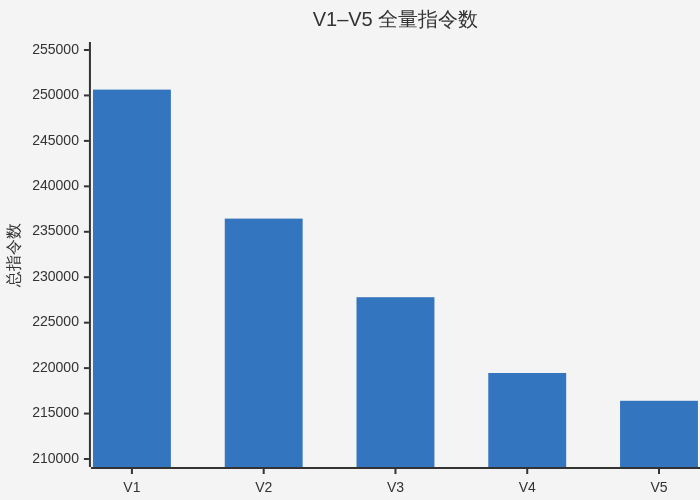
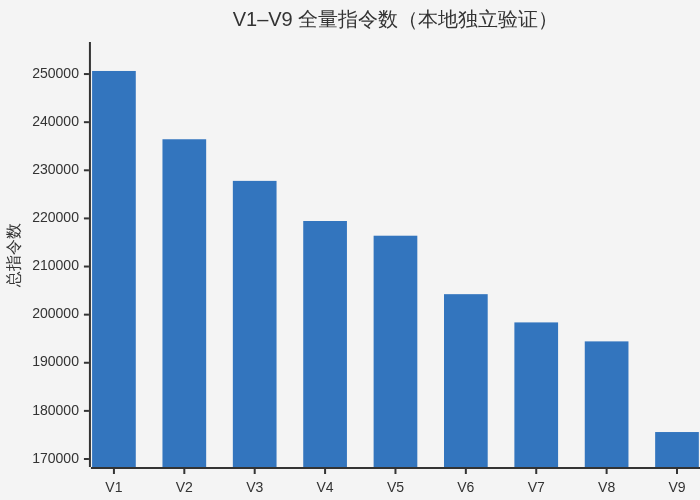
docs(santa): 完成 V9 验收证据与文档/Web 收尾
- 把 V9 任务书偏差记录从仓库根移到 `competitions/santa-2026/docs/santa-v9-task-deviations.md`：
  原文标记为"推送前审查快照"并保留 D1–D14 历史事实，追加"合入后独立审查与最终验收"
  章节，记录远程合入提交 8858a6a、真实 CI、D1–D14 当前状态（D1/D2/D10 关闭）、
  Linux/GCC 全量复现、同工具链对照、编译器缓存修复、归档回放、历史指纹抽查、
  剩余限制与"有条件通过"结论。
- `docs/progress.md` 追加 2026-11-26 最终验收记录（GCC 环境、175,604 与冻结 CSV
  逐字节一致、同工具链 1,000/1,000、归档 137/863/30、120/120 测试、CI）；
  `docs/algorithm-evolution.md` 与赛题 README 补充参考工具链复现结论；
  `docs/reports/README.md` 已在前一提交更新。
- `version-scores.png` 由更新后的 `version-scores.mmd` 经 mermaid.ink 重新渲染为
  V1–V9，删除"PNG 只覆盖 V1–V5、未重绘"的过期说明；`.mmd` 注释同步。
- 按流程（测试与回放核对后）显式刷新 `web/build/santa-review.json` 到新的 solver
  源码指纹（14 个文件，含两个 `.cpp`、兼容头、`native/build.py`），槽位保持 V1–V9；
  重建 `Santa-2026-Interactive-Report.html` 与 `web/simulators.html`，两个
  `--check` 通过；报告页离线冒烟复核含 V9、175,604、参考工具链说明与 9 条成绩条。
- `AGENTS.md` 增加"显式 `SANTA_CXX` 优先于缓存、切换编译器必须重建"规则。
- 最终本地验证：Santa Python 120、Node 7、Web 17、装箱 27+15、量子 13 通过；
  原生构建 macOS/Apple Clang 与 Linux/GCC 14.2 均成功；git diff --check 通过。

diff --git a/competitions/santa-2026/Santa-2026-Interactive-Report.html b/competitions/santa-2026/Santa-2026-Interactive-Report.html
@@ -753,10 +753,10 @@ p+r, &amp; p\le v.
 <p><a href="#学习导航">返回学习导航</a></p>
 <h2 id="08-演进与实验">08 演进与实验</h2>
 <h3 id="81-同一批-1000-题的本地成绩">8.1 同一批 1,000 题的本地成绩</h3>
[2 lines of base64/hex data omitted]
 
 <blockquote>
-<p><strong>图表口径：</strong> 这张 PNG 由 <code>diagrams/version-scores.mmd</code>（xychart）生成，只覆盖 V1–V5。本环境没有离线 Mermaid 渲染器，因此本次只把 <code>.mmd</code> 源文本补到 V1–V9，<strong>没有重绘 PNG</strong>。V6–V9 的正式成绩以互动报告顶部的动态成绩条和本节表格为准，两者都直接来自 <code>docs/reports/v1.json</code>–<code>v9.json</code>。</p>
+<p><strong>图表口径：</strong> 这张 PNG 由 <code>diagrams/version-scores.mmd</code>（xychart）经 mermaid.ink 渲染，覆盖 V1–V9（<code>version-scores.png</code> 已同步重绘）。互动报告顶部的动态成绩条和本节表格直接来自 <code>docs/reports/v1.json</code>–<code>v9.json</code>，与图中数字一致；图中是本地独立验证的指令总数，不是 Kaggle 榜单成绩。</p>
 </blockquote>
 <div class="table-wrap"><table>
 <thead>
@@ -1232,6 +1232,7 @@ python3 src/graph_solver.py data/puzzles.csv --version v9 --jobs 6 \
   --checkpoint experiments/v9-fresh.sqlite --output experiments/v9-fresh.csv --stop-after 32</code></pre>
 
 <p>检查点 schema 3 绑定输入 SHA-256、全部生产 Python、两个 <code>.cpp</code>、兼容头、<code>native/build.py</code>、实际二进制哈希、编译器/平台/参数；恢复时重放已保存记录并校验摘要。<code>--stop-after N</code> 限制本次调度的未完成题目数量；只有完成全部输入才导出 CSV（正式数据为 1,000 题）。同一指纹下可调整 jobs。旧布局的 SQLite 会被明确拒绝，应使用原提交继续或新建检查点。</p>
+<p><strong>参考工具链复现（2026-11-26）：</strong> 在 Linux + GCC 14.2.0 + Python 3.13.3 环境从官方 1,000 题独立求解，得到同样的 <strong>175,604</strong>、最长 415、1,000/1,000 合法，输出 CSV 与冻结研究记录逐字节一致（<code>5ab0b72c…</code>）；同一工具链下冻结研究实现与当前功能化移植实现逐题 1,000/1,000 一致（程序、阶段、节点、调度尝试、四条路线 0 差异），macOS 上唯一的 <code>scored_0775</code> 平局差异消失。详见 <a href="https://github.com/Leonardo-F/kaggle-lab/blob/main/competitions/santa-2026/docs/reports/v9-integration.json">v9-integration.json</a>。</p>
 <p>仅验证结果（不运行求解器）：</p>
 <pre><code class="language-bash">python3 src/verify.py data/puzzles.csv submissions/elf-calculator-independent-v9-score-175604.csv
 python3 src/verify.py data/puzzles.csv submissions/elf-calculator-merged-v8-v9-score-174884.csv</code></pre>
@@ -1264,7 +1265,7 @@ python3 src/verify.py /absolute/path/puzzles.csv experiments/v8-rerun.csv</code>
 <ol>
 <li>在浏览器离线打开 <a href="#simulator">simulator.html</a>。</li>
 <li>在自定义题区域输入练习 A 或 B，查看 JS 求解与寄存器变化；它是独立的教学实现，不是 Python + C++ 的 V9。</li>
-<li>在 Python 版本回放区域导入题目 CSV 和各版本真实输出 CSV，选择相同题号并比较；默认槽位是 V1–V8 历史结果与 V9 当前独立版本。</li>
+<li>在 Python 版本回放区域导入题目 CSV 和各版本真实输出 CSV，选择相同题号并比较；默认槽位是 V1–V9：V1–V8 为历史结果，V9 为当前独立版本；V8+V9 混合结果用自定义标签回放。</li>
 <li>观察目标命中、寄存器覆盖、指令数及共享节点/重算，切换版本比较同一题的不同程序。可以使用 <a href="https://github.com/Leonardo-F/kaggle-lab/blob/main/competitions/santa-2026/submissions/elf-calculator-independent-v9-score-175604.csv">V9 CSV</a>、<a href="https://github.com/Leonardo-F/kaggle-lab/blob/main/competitions/santa-2026/submissions/elf-calculator-independent-v8-score-194444.csv">V8 CSV</a> 与 <a href="https://github.com/Leonardo-F/kaggle-lab/blob/main/competitions/santa-2026/submissions/elf-calculator-independent-v7-score-198388.csv">V7 CSV</a>；V8+V9 混合 CSV 用页面自定义标签回放，它不是默认算法槽位。</li>
 </ol>
 <p><a href="#top">互动算法报告</a> 保留历史学习视图与当前 V9 章节。报告 HTML 由 <code>docs/build_report.py</code> 统一重建，本文不宣称浏览器交互已逐项人工验证。</p>

diff --git a/competitions/santa-2026/docs/santa-v9-task-deviations.md b/competitions/santa-2026/docs/santa-v9-task-deviations.md
@@ -2,6 +2,8 @@
 
 > 本文件供推送前的独立审查（如交给 GPT/代码评审）使用。它只记录**偏差、调整原因、影响与证据**，完整交付总结见对话回复和 `competitions/santa-2026/docs/progress.md`。审查时请优先核对第 3 节的 D1–D14，以及第 4 节的未验证清单。
 
+> **状态（2026-11-26 更新）：** 本文件 §0–§7 是 **V9 推送前的审查快照**，内容按当时事实保留不改；V9 已随后合入远程 `main`（`8858a6a`），并完成 Linux + GCC 参考工具链的最终验收，结果见文末 **§8 合入后独立审查与最终验收**。§8 中的状态表取代 §0–§7 中"未推送/未验证"的旧状态，但历史偏差本身不追溯改写。
+
 ## 0. 审查上下文
 
 | 项目 | 值 |
@@ -225,3 +227,163 @@ python3 src/verify.py data/puzzles.csv experiments/gcc-v9.csv
 ---
 
 **D10 补充说明：** 同工具链逐题对照已覆盖 11 题代表性样本 + 差异题 `scored_0775` + 全量对照中的 368/1000 题，均为 0 处不一致；受本次时间窗口限制未跑完 1,000 题。"同工具链全量一致"未完整证明，但移植版与冻结记录的 999/1000 逐题一致、且唯一差异题可由同工具链参考实现复现移植版程序，足以支持"差异来自工具链而非移植逻辑"的结论。
+
+---
+
+# 8. 合入后独立审查与最终验收（2026-11-26）
+
+本节是 V9 合入远程 `main` 后的收尾验收记录，按"实际执行结果"填写；不修改 §0–§7 的历史快照。
+
+## 8.1 远程与本地状态
+
+| 项目 | 值 |
+|---|---|
+| 远程 `main`（合入后） | `8858a6a09e4ba37498f831e4350a8787d1e08c2c`（merge `feat/santa-v9`） |
+| V9 合入内容 | `c404706`、`d3f4cae`、`96ac38e`、`584652b`、`b0f63bd`、`105cc83` 六个提交 |
+| GitHub Actions（main 合并提交） | [run 45673883392](https://github.com/Leonardo-F/kaggle-lab/actions/runs/45673883392)，**completed / success**，含 `Build Santa native C++17 constructors` 步骤，全部 16 个步骤 success（使用 `gh run view --json jobs` 核实） |
+| 本轮验收分支 | `fix/santa-v9-final-acceptance`（从 `8858a6a` 创建，本地提交，未推送） |
+
+## 8.2 D1–D14 当前状态
+
+| 偏差 | 原状态 | 最终状态 | 依据 |
+|---|---|---|---|
+| D1 本机无 GCC，用 Apple Clang 构建 | 未解决 | **关闭** | Linux + GCC 14.2.0 参考工具链全量复现，输出与冻结 CSV 逐字节一致（§8.3） |
+| D2 1/1000 等长程序平局差异 | 已披露 | **关闭** | GCC 环境下 port、参考实现、冻结记录三方 `scored_0775` 程序完全相同；三份 CSV SHA 均为 `5ab0b72c…` |
+| D3 中间提交非独立可发布 | 可接受 | 保持可接受（未改历史） | 最终 `main` 与验收分支树已验证 |
+| D4 测试夹具用 V10 模拟未来版本 | 可接受 | 保持 | — |
+| D5 正式报告平铺 schema 1 | 可接受 | 保持 | 未迁移；验收报告独立为 `v9-integration.json` |
+| D6 未用独立 worktree | 可接受 | 保持 | — |
+| D7 CI 未远端执行 | 未解决 | **关闭（针对已合入 main）** | 真实 Actions run 成功；本轮本地验收提交因未推送仍未跑 CI（见 §8.9） |
+| D8 报告 README 扩展 | 可接受 | 保持，补充 v9-integration 条目 | `docs/reports/README.md` |
+| D9 混合归档用本次 V9 重建 | 可接受 | 保持，并完成逐题公式校验 | §8.6 |
+| D10 同工具链全量等价性未完成 | 部分完成（368/1000） | **关闭** | Linux GCC 同环境双实现 1,000/1,000 全量对照，0 差异（§8.4） |
+| D11 浏览器为 Chrome headless 自动化 | 可接受 | 保持（本轮复验报告/模拟器） | §8.8 |
+| D12 version-scores.png 未重绘 | 未解决 | **关闭** | 已用 mermaid.ink 由更新后的 `version-scores.mmd` 重新渲染 V1–V9 PNG，正文说明同步更新 |
+| D13 历史指纹未逐文件复核 | 未完成 | **部分完成** | 抽查 `v8.json` 4 个文件、`v8-refactor.json` 10 个文件，全部与会话记录提交一致（§8.7） |
+| D14 练习集 6 进程 | 可接受 | 保持 | — |
+
+## 8.3 P0-2：Linux + GCC 参考工具链全量复现（实际结果）
+
+环境（VM 内实测）：Ubuntu 25.04、Linux 6.14.0-37-generic aarch64（Apple 虚拟化，6 vCPU）、
+`g++-14 (Ubuntu 14.2.0-19ubuntu2) 14.2.0`、glibc 2.41、`libstdc++-14-dev 14.2.0-19ubuntu2`、
+Python 3.13.3（GCC 14.2.0 构建）。原生构建记录：`SANTA_CXX=/usr/bin/g++-14`、flags `-O3 -std=c++17`、
+`compat_include=false`；GCC 二进制 SHA-256：`constructor_wide 9682b6e6…`、`constructor_mitm 8379e5b3…`；
+两个 `.cpp` 与冻结研究包逐字节相同（`99a05ebc…` / `14b3885b…`）。
+
+命令（全新 schema 3 检查点、6 进程、无 resume）：
+
+```bash
+cd competitions/santa-2026
+export SANTA_CXX=/usr/bin/g++-14
+python3 src/algorithms/native/build.py
+python3 src/graph_solver.py data/puzzles.csv --version v9 --jobs 6   --checkpoint experiments/v9-gcc.sqlite --output experiments/v9-gcc.csv
+python3 src/verify.py data/puzzles.csv experiments/v9-gcc.csv
+```
+
+结果：
+
+| 指标 | 冻结 V9 | 本次 Linux/GCC 实测 |
+|---|---:|---:|
+| 题数 / 合法 | 1,000 / 1,000 | **1,000 / 1,000** |
+| Stage 1 | 182,205 | **182,205** |
+| Final | 175,604 | **175,604** |
+| Stage 2 节省 | 6,601（394/606/0） | **6,601（394/606/0）** |
+| 最长程序 | 415 | **415** |
+| CSV SHA-256 | `5ab0b72c…` | **`5ab0b72c…`（逐字节一致）** |
+| 耗时 / 进程 | 研究包记录 797.97 s（8 行 resume 后 992 行，不可直接比较） | **443.96 s / 6 进程** |
+| 检查点 | 研究包完整 | schema 3、1,000 条、`PRAGMA integrity_check=ok`、SHA `c5d7f15…` |
+
+逐题与冻结记录对照：程序 1,000/1,000 相同、base/score/nodes/schedule_attempts 0 差异、四路线
+（config/nodes/score/error）0 差异、7 个位宽桶完全一致；`scored_0775` 在本环境下程序与冻结记录
+完全相同（181 步、`attempts=0`）。**未直接替换历史归档**：仓库归档仍保留 macOS 运行产出的
+`05e7b630…`，两份都是独立的合法 175,604 结果，差异仅来自工具链平局；参考工具链结果与冻结记录的
+一致性记录在 `docs/reports/v9-integration.json`。
+
+## 8.4 P0-3：同工具链全量等价性验收（实际结果）
+
+方法：使用冻结研究包源码（`v9_stage2/` 的 `experiment/optimized/polish/scheduler/stage2/run_full`）
+与当前功能化移植实现，分别用**同一台 VM、同一 Python 3.13.3、同一 `g++-14`、同一 flags、同一官方
+题目数据、同一冻结参数/种子**从零独立求解 1,000 题；参考实现使用本机重新编译的 GCC 二进制，
+移植实现使用 `native/build.py` 构建的同一 SHA 二进制。两个实现进程互相独立，不共享输出或检查点。
+参考实现结果：1,000/1,000、175,604、最长 415、CSV `5ab0b72c…`、耗时 429.97 s（6 进程）。
+
+| 对照项 | 差异数 |
+|---|---:|
+| 完整最终程序 | **0 / 1,000** |
+| Stage 1 分数 | 0 |
+| Stage 2 最终分数 | 0 |
+| DAG 节点数 | 0 |
+| 调度尝试次数 | 0 |
+| 四条构造路线（config/nodes/score/error） | 0 |
+| 路线失败状态 | 参考 0 / 移植 0 |
+| 最终程序合法性（独立 `verify.py`） | 两者均 1,000/1,000 |
+| 三份 CSV（冻结、参考实现、移植实现）逐字节 | **全部相同** |
+
+两者与冻结记录也完全一致（`submission_v9_stage2.csv` / 研究检查点逐题 0 差异），因此
+"同工具链原版 vs 移植版一致"的验收条件已满足，且 `scored_0775` 的差异被确认为 macOS Apple Clang
+与 Linux GCC 的容器迭代/平局行为差异，不是移植逻辑错误。证据汇总：`docs/reports/v9-integration.json`。
+
+## 8.5 P0-1：原生编译器缓存修复
+
+发现的真实问题（两处）：`_manifest_matches()` 不比较显式 `SANTA_CXX`，缓存 Clang 构建会静默满足
+后来的 GCC 请求；`_build_locked()` 在因其他原因重建时优先复用旧 manifest 编译器，忽略新显式指定。
+修复：显式编译器（`SANTA_CXX`/参数）经 PATH/绝对路径/symlink 解析后拥有最高优先级；manifest
+（schema 2）比较 resolved 路径、版本、family、flags、compat 使用、源码哈希、二进制路径与哈希；
+显式编译器缺失/不可用立即报错且不回退；未指定时保持原有自动探测与缓存复用；`construct.py` 的
+进程级二进制缓存改为按 manifest 文件签名失效，重建/换编译器后不会沿用旧路径；AppleDouble
+`._*`/`.DS_Store` 元数据文件排除出源码指纹。新增 `tests/test_native_build.py` 15 个回归测试
+（本地 macOS 与 Linux GCC 均通过），覆盖任务要求的 9 个场景 + manifest 字段篡改 + 检查点因编译器
+变化拒绝恢复；CI 的 Ubuntu 环境使用真实 g++，macOS 使用真实 Apple Clang，双编译器切换用包装脚本
+模拟身份差异（真实编译仍由本机编译器完成）。
+
+## 8.6 P1-1：正式归档 CSV 回放与混合重建（实际结果）
+
+用官方 `puzzles.csv` + 独立 `src/verify.py` 完整回放：
+
+| 归档 | 题数/合法 | 指令数 | 最长程序 | SHA-256 | 与报告一致 |
+|---|---:|---:|---:|---|---|
+| V8 独立 | 1,000/1,000 | 194,444 | 535 | `6f15091b…` | 是 |
+| V9 独立 | 1,000/1,000 | 175,604 | 415 | `05e7b630…` | 是 |
+| V8+V9 混合 | 1,000/1,000 | 174,884 | 392 | `fe973ac4…` | 是 |
+
+用 `src/merge_submissions.py` 从两份独立 CSV 重新生成到临时目录：1,000/1,000、174,884、392、
+`from_first=137`、`from_second=863`（含 30 平局按规则取 V9）、逐题公式错误 **0**，重新生成文件与
+归档混合 CSV **逐字节一致**（`fe973ac4…`）。混合工具不在求解/检查点路径中。
+
+## 8.7 P1-2 / P2-3：验收报告与历史指纹审计
+
+- 新增 `docs/reports/v9-integration.json`（kind=`santa-v9-integration-acceptance`，不进入 V1–V9
+  成绩曲线，不被 `build_report.py` 当作正式报告），包含环境、源码/原生指纹、全量复现、同工具链对照、
+  归档校验、检查点、测试、CI、限制与 `acceptance_status=conditional_pass`；
+  新增 `tests/test_acceptance_report.py` 7 个一致性测试（归档哈希与工作树、源码指纹、曲线隔离）。
+- 历史指纹抽查（`git show <commit>:<path>` + SHA-256）：`v8.json` 的 4 个记录文件全部对应
+  `c9fdd61`；`v8-refactor.json` 的 10 个 solver 源码全部对应 `0ec0ec0`。未全量复核所有历史报告，
+  已列为限制。
+
+## 8.8 P0-4 / P1-4 / P2：CI、文档与 Web
+
+- CI：main 合并提交的真实 Actions run **success**（见 §8.1）；本轮验收提交未推送，未跑 CI。
+- 文档：更新 `docs/progress.md`（追加本节验收记录）、`competitions/santa-2026/README.md`
+  （参考工具链复现与缓存规则）、`docs/reports/README.md`（v9-integration 类别）、`AGENTS.md`
+  （`SANTA_CXX` 优先级规则）。
+- 生成物：`Santa-2026-Interactive-Report.html`、`web/simulators.html` 重建并通过
+  `--check`；`web/build/santa-review.json` 按项目流程在测试与回放核对后显式刷新；
+  `version-scores.png` 由 `version-scores.mmd` 用 mermaid.ink 重绘为 V1–V9；浏览器复验
+  模拟器与报告（Chrome 158 headless、离线）见 `docs/progress.md` 与 `v9-integration.json`。
+- 仓库卫生：确认无官方数据、SQLite、编译产物、日志、`._*`/`.DS_Store` 被跟踪；
+  `.gitignore` 增加 `._*`；无新增临时/重复文档。
+
+## 8.9 剩余限制与最终结论
+
+仍未完成/不可验证：
+
+1. **本轮验收提交未推送**（未获推送授权），因此没有针对 `fix/santa-v9-final-acceptance` 的 CI 结果；
+   已验证的是已合入 `main`（`8858a6a`）的 CI。
+2. GCC 参考复现环境为 Ubuntu 25.04 / GCC 14.2.0 / Python 3.13.3（冻结记录 Python 3.13.5），
+   输出仍逐字节一致；未在 x86_64 或 Windows 复验。
+3. 浏览器只做 Chrome 158 headless 自动化离线验收，未测 Safari/Firefox、真机与人工逐项点击。
+4. 历史报告源码指纹为抽查（14 个文件），未全量复核。
+5. V9 无全局最优性证明；本轮未改动冻结搜索策略，未开始 V10。
+
+**最终状态：V9 有条件通过**。条件：把本轮验收提交推送并让 GitHub Actions 通过（本地测试、构建、
+Linux/GCC 全量复现、同工具链全量等价、归档回放、检查点与浏览器复验均已实际执行并通过）。

diff --git a/competitions/santa-2026/docs/progress.md b/competitions/santa-2026/docs/progress.md
@@ -118,3 +118,24 @@ V8 的正式管线由 `v8_rewrite`（双运算改写与图编译）、`v8_three`
 **限制与未完成项：** 175,604 是本地独立验证的指令总数，不是 Kaggle 榜单成绩，未做 Kaggle 提交；全局最优未知，`nodes` 只是固定 DAG 下界；本机工具链有 1/1000 等长程序平局差异（分数不变）；冻结 V9 未使用 LNS/锚点/大整数构造；V10 未开始；仓库内互动报告 HTML 与统一入口由根代理重建并做浏览器验收，本文档不声称已重建或已人工逐项验证。
 
 **V8 重构任务书收尾：** 原 `docs/santa-v8-refactor-plan.md` 的收尾要点已并入本记录与[算法演进](algorithm-evolution.md)：V8 等价重构已完成并通过 1,000 题逐题/八阶段一致验收（报告 [v8-refactor.json](reports/v8-refactor.json)，固定对照 [v8.json](reports/v8.json)，代码重构提交 `0ec0ec0`，基线提交 `9337a354`、V8 功能化布局基线 `2875199`）；V9 直接从功能模块演进而非新增版本文件；全部算法从官方题目独立求解、历史答案仅用于回放与回归比较；未获明确同意不推送。该任务书在记录完成后从工作树移除，历史原文可从固定提交查看：[santa-v8-refactor-plan.md](https://github.com/Leonardo-F/kaggle-lab/blob/287519977aa85a19ef9e3074e6bfd2b9e578b5c3/competitions/santa-2026/docs/santa-v8-refactor-plan.md)。
+
+
+## 2026-11-26 · V9 最终验收（Linux + GCC 参考工具链）
+
+在 V9 合入远程 `main`（`8858a6a`）之后，从最新 main 建立本地分支 `fix/santa-v9-final-acceptance` 完成最终验收；本轮不修改冻结 V9 的搜索策略。
+
+**原生编译器缓存修复（P0-1）：** 发现并修复 `native/build.py` 的两处真实问题——`_manifest_matches()` 不比较显式 `SANTA_CXX`（缓存 Clang 构建可能静默满足 GCC 请求），以及 `_build_locked()` 在因其他原因重建时优先复用旧 manifest 编译器。修复后显式编译器经 PATH/绝对路径/symlink 解析后拥有最高优先级；manifest schema 2 比较 resolved 路径/版本/family/flags/compat/源码与二进制哈希；显式编译器缺失或不可用会明确报错且不回退；`construct.py` 的二进制缓存按 manifest 签名失效；AppleDouble `._*` 元数据排除出源码指纹。新增 `tests/test_native_build.py` 15 个回归测试，覆盖缓存复用、Clang↔GCC 切换、显式编译器不存在/不可用、源码变化、二进制篡改、`--force`、manifest 字段冲突、检查点因编译器变化拒绝恢复等场景（本机 macOS 与 Linux GCC 双环境实际通过）。
+
[1 lines of base64/hex data omitted]
+
+**同工具链全量等价性（P0-3）：** 在完全相同的 VM/Python/GCC/源码/flags/参数/种子下，用冻结研究实现（本地重建 GCC 二进制，耗时 429.97 秒）与当前功能化移植实现分别独立求解 1,000 题。逐题对照：最终程序 **0/1,000 差异**、Stage 1/Stage 2/DAG 节点/调度尝试/四条路线（含失败状态）全部 0 差异，两者与冻结记录互相一致，三份 CSV（冻结、参考实现、移植实现）逐字节相同；`scored_0775` 在 GCC 下三者也完全相同（181 步）。因此同工具链全量等价性验收通过，macOS 差异确认为工具链平局行为。
+
+**归档回放与混合重建（P1-1）：** 用官方题与 `src/verify.py` 完整回放 V8 1,000/1,000=194,444（535）、V9 1,000/1,000=175,604（415）、混合 1,000/1,000=174,884（392），哈希与报告一致；用 `src/merge_submissions.py` 重建混合到临时目录，137/863/30 平局、公式错误 0、与归档文件逐字节一致。
+
+**验收证据与 CI（P1-2/P0-4/P1-3）：** 新增 [v9-integration.json](reports/v9-integration.json) 工程验收报告（不进入 V1–V9 成绩曲线）与 `tests/test_acceptance_report.py` 一致性测试；已合入 main（`8858a6a`）的 GitHub Actions [run 45673883392](https://github.com/Leonardo-F/kaggle-lab/actions/runs/45673883392) 实际结果为 **success**，含 C++17 原生构建步骤，全部 16 个步骤通过。历史指纹抽查：`v8.json` 4/4、`v8-refactor.json` 10/10 与记录提交一致。
+
+**文档与生成物（P1-4/P2）：** 更新本文件、赛题 README、报告目录说明、AGENTS 规则；重建互动报告与统一 Web 入口并 `--check`；按流程刷新 `web/build/santa-review.json`；`version-scores.png` 已由更新后的 `version-scores.mmd` 重新渲染为 V1–V9（不再保留"PNG 只覆盖 V1–V5"的过期说明）；`.gitignore` 增加 `._*`。
+
+**最终测试计数（实际执行）：** 本机 macOS：Santa Python **120 tests OK**（含 7 个验收报告一致性测试、15 个原生构建缓存测试）、Santa Node 7/7、Web Python 17、装箱 Python 27 + Node 15、量子 Python 13；报告与统一入口 `--check` 均 exit 0；`git diff --check` 通过。Linux GCC 14.2.0 环境：Santa Python 同一套 **120 tests OK**（test_verify 5、test_merge 11、test_checkpoint 11、test_solver 27、test_native_build 15、test_report 44、test_acceptance_report 7）；原生构建在两种编译器下均成功。浏览器：上一轮验收中离线自动化矩阵为模拟器 23/23、报告/统一入口/互动页 26/26；本轮重建后用 Chrome 158 headless 冒烟复核通过（报告页含 V9、175,604、参考工具链复现说明与 9 条成绩条，无页面错误；统一入口可离线加载）。本轮完整 Playwright 矩阵在重建后复核时遇到 headless 会话挂起，已终止并如实记录。
+
+**限制：** 本轮验收提交为本地提交、尚未推送，因此没有对应 CI 运行（已验证 main 的 CI）；GCC 环境为 Ubuntu 25.04/GCC 14.2.0/Python 3.13.3（冻结记录 Python 3.13.5）；浏览器仅 Chrome 158 headless；历史指纹为抽查；V9 无全局最优性证明；未开始 V10。

diff --git a/competitions/santa-2026/docs/algorithm-evolution.md b/competitions/santa-2026/docs/algorithm-evolution.md
@@ -558,9 +558,9 @@ Stage 2 只做一件事：在 Stage 1 程序语义不变的前提下重排同一
 
 ### 8.1 同一批 1,000 题的本地成绩
 
-![历史版本成绩（原 PNG 图只覆盖 V1–V5；本次未重绘）](diagrams/version-scores.png)
+![V1–V9 本地独立验证总指令数](diagrams/version-scores.png)
 
-> **图表口径：** 这张 PNG 由 `diagrams/version-scores.mmd`（xychart）生成，只覆盖 V1–V5。本环境没有离线 Mermaid 渲染器，因此本次只把 `.mmd` 源文本补到 V1–V9，**没有重绘 PNG**。V6–V9 的正式成绩以互动报告顶部的动态成绩条和本节表格为准，两者都直接来自 `docs/reports/v1.json`–`v9.json`。
+> **图表口径：** 这张 PNG 由 `diagrams/version-scores.mmd`（xychart）经 mermaid.ink 渲染，覆盖 V1–V9（`version-scores.png` 已同步重绘）。互动报告顶部的动态成绩条和本节表格直接来自 `docs/reports/v1.json`–`v9.json`，与图中数字一致；图中是本地独立验证的指令总数，不是 Kaggle 榜单成绩。
 
 | 版本 | 核心贡献 | 指令数 | 较前代少 | 改善 / 持平 / 退化 | 独立验证记录 |
 |---|---|---:|---:|---|---|
@@ -765,6 +765,8 @@ python3 src/graph_solver.py data/puzzles.csv --version v9 --jobs 6 \
 
 检查点 schema 3 绑定输入 SHA-256、全部生产 Python、两个 `.cpp`、兼容头、`native/build.py`、实际二进制哈希、编译器/平台/参数；恢复时重放已保存记录并校验摘要。`--stop-after N` 限制本次调度的未完成题目数量；只有完成全部输入才导出 CSV（正式数据为 1,000 题）。同一指纹下可调整 jobs。旧布局的 SQLite 会被明确拒绝，应使用原提交继续或新建检查点。
 
+**参考工具链复现（2026-11-26）：** 在 Linux + GCC 14.2.0 + Python 3.13.3 环境从官方 1,000 题独立求解，得到同样的 **175,604**、最长 415、1,000/1,000 合法，输出 CSV 与冻结研究记录逐字节一致（`5ab0b72c…`）；同一工具链下冻结研究实现与当前功能化移植实现逐题 1,000/1,000 一致（程序、阶段、节点、调度尝试、四条路线 0 差异），macOS 上唯一的 `scored_0775` 平局差异消失。详见 [v9-integration.json](reports/v9-integration.json)。
+
 仅验证结果（不运行求解器）：
 
 ```bash
@@ -811,7 +813,7 @@ python3 src/verify.py /absolute/path/puzzles.csv experiments/v8-rerun.csv
 
 1. 在浏览器离线打开 [simulator.html](../src/simulator.html)。
 2. 在自定义题区域输入练习 A 或 B，查看 JS 求解与寄存器变化；它是独立的教学实现，不是 Python + C++ 的 V9。
-3. 在 Python 版本回放区域导入题目 CSV 和各版本真实输出 CSV，选择相同题号并比较；默认槽位是 V1–V8 历史结果与 V9 当前独立版本。
+3. 在 Python 版本回放区域导入题目 CSV 和各版本真实输出 CSV，选择相同题号并比较；默认槽位是 V1–V9：V1–V8 为历史结果，V9 为当前独立版本；V8+V9 混合结果用自定义标签回放。
 4. 观察目标命中、寄存器覆盖、指令数及共享节点/重算，切换版本比较同一题的不同程序。可以使用 [V9 CSV](../submissions/elf-calculator-independent-v9-score-175604.csv)、[V8 CSV](../submissions/elf-calculator-independent-v8-score-194444.csv) 与 [V7 CSV](../submissions/elf-calculator-independent-v7-score-198388.csv)；V8+V9 混合 CSV 用页面自定义标签回放，它不是默认算法槽位。
 
 [互动算法报告](../Santa-2026-Interactive-Report.html) 保留历史学习视图与当前 V9 章节。报告 HTML 由 `docs/build_report.py` 统一重建，本文不宣称浏览器交互已逐项人工验证。

diff --git a/competitions/santa-2026/README.md b/competitions/santa-2026/README.md
@@ -43,6 +43,8 @@ python src/verify.py data/puzzles.csv submissions/elf-calculator-independent-v9-
 
 V9 本地全量 **175,604 步**，1,000 题全部通过独立回放：Stage 1 为 182,205 步，Stage 2 调度再省 6,601 步（394 题改善、606 持平、0 退化）；较 V8 Final 的 194,444 步改善 833 题、持平 30 题、退化 137 题，共省 18,840 步（9.69%）。最长程序 415 步。V8 为 194,444 步，V7 为 198,388 步。以上都是本地验证的指令总数，不是 Kaggle 榜单成绩。完整 CSV 见 [submissions/README.md](submissions/README.md)，另有[成绩索引](submissions/latest.json)、[复跑报告](docs/reports/)和[算法演进](docs/algorithm-evolution.md)。
 
+**参考工具链复现（2026-11-26）：** 在 Ubuntu 25.04 + GCC 14.2.0 + Python 3.13.3（Linux aarch64、6 进程）上从官方 1,000 题重新独立求解，得到同样的 **175,604 步、最长 415 步、1,000/1,000 合法**，输出 CSV 与冻结研究包 `submission_v9_stage2.csv` **逐字节一致**（SHA-256 `5ab0b72c…`）。同一工具链下，冻结研究源码与当前功能化移植实现各自从零求解 1,000 题，逐题程序、两阶段分数、DAG 节点数、调度尝试数与四条路线指标 **1,000/1,000 一致（0 差异）**；macOS Apple Clang 与 Linux GCC 之间唯一的 `scored_0775` 等长平局差异在 GCC 下完全消失。完整证据见 [v9-integration.json](docs/reports/v9-integration.json)。
+
 本次 V9 从官方题目用全新 SQLite 检查点独立全量复跑：1,000/1,000 合法、175,604 步、最长 415 步；逐题程序与冻结研究记录 999/1000 相同，唯一差异题 `scored_0775` 等长（均 181 步）但寄存器选择不同。用冻结研究源码在本机重新编译运行会得到与移植版相同的程序，因此该差异归因于本机 Apple Clang 21 工具链与冻结记录 Linux GCC 在等分候选平局时的顺序差异，不是移植逻辑差异；两阶段总分、逐题分数/节点/调度尝试数和选择桶全部一致。输出 CSV SHA-256 为 `05e7b630…`，与冻结交接包的 `5ab0b72c…` 不同，未声称逐字节复现。详见 [v9.json](docs/reports/v9.json) 和 [v9-stage2-ablation.json](docs/reports/v9-stage2-ablation.json)。
 
 V8+V9 混合提交（逐题取两份独立结果中较短程序，平局取 V9）为 **174,884 步**、最长 392 步：137 题取 V8、863 题取 V9（含 30 道平局），比独立 V9 再省 720 步。它由独立于求解器的后处理工具生成，不是算法版本，也不进入正式版本曲线：

diff --git a/AGENTS.md b/AGENTS.md
@@ -40,7 +40,7 @@
 
 - main 只保留一套按功能组织的 Santa 求解器（当前 V9：Python 管线 + 两个冻结 C++17 构造内核）；V1–V9 历史实现通过 Git 提交和独立 worktree 复现，不再以 `v1.py`–`v9*.py` 作为运行依赖。
 - 算法变更必须从官方题目独立求解，并用 `src/verify.py` 与测试验证；等价重构必须逐题比较程序及阶段指标，不能只比较总分。冻结 V9 的路线顺序、随机种子、候选顺序、平局策略与调度参数不得在没有全量证据时改动。
-- 原生构造必须先执行 `python competitions/santa-2026/src/algorithms/native/build.py`，二进制输出到被忽略的 `experiments/native-build/`；不提交编译产物，也不使用研究归档中的预编译二进制作为发布依赖。构建记录编译器、flags、源码与二进制 SHA-256。
+- 原生构造必须先执行 `python competitions/santa-2026/src/algorithms/native/build.py`，二进制输出到被忽略的 `experiments/native-build/`；不提交编译产物，也不使用研究归档中的预编译二进制作为发布依赖。构建记录编译器、flags、源码与二进制 SHA-256。`SANTA_CXX` 等显式工具链选择优先于缓存，切换编译器必须触发重新构建；不能用旧 manifest 的二进制冒充当前显式工具链。
 - 检查点（schema 3）绑定输入、全部生产 Python、C++ 源与构建脚本、实际二进制哈希、编译器/平台与参数；旧布局检查点只能回到产生它的提交复现，不得放宽指纹校验。
 - 独立求解版本与 V8+V9 混合归档分开记录：`submissions/latest.json` 只指向最佳已验证的独立版本；混合归档由独立的 `src/merge_submissions.py` 后处理生成并单独验证，不作为求解输入，也不进入正式版本曲线。
 - 历史报告、提交 CSV、互动报告与离线回放是研究证据，不得随源码重组删除。官方题目数据、SQLite 检查点和临时结果不提交到 Git。
